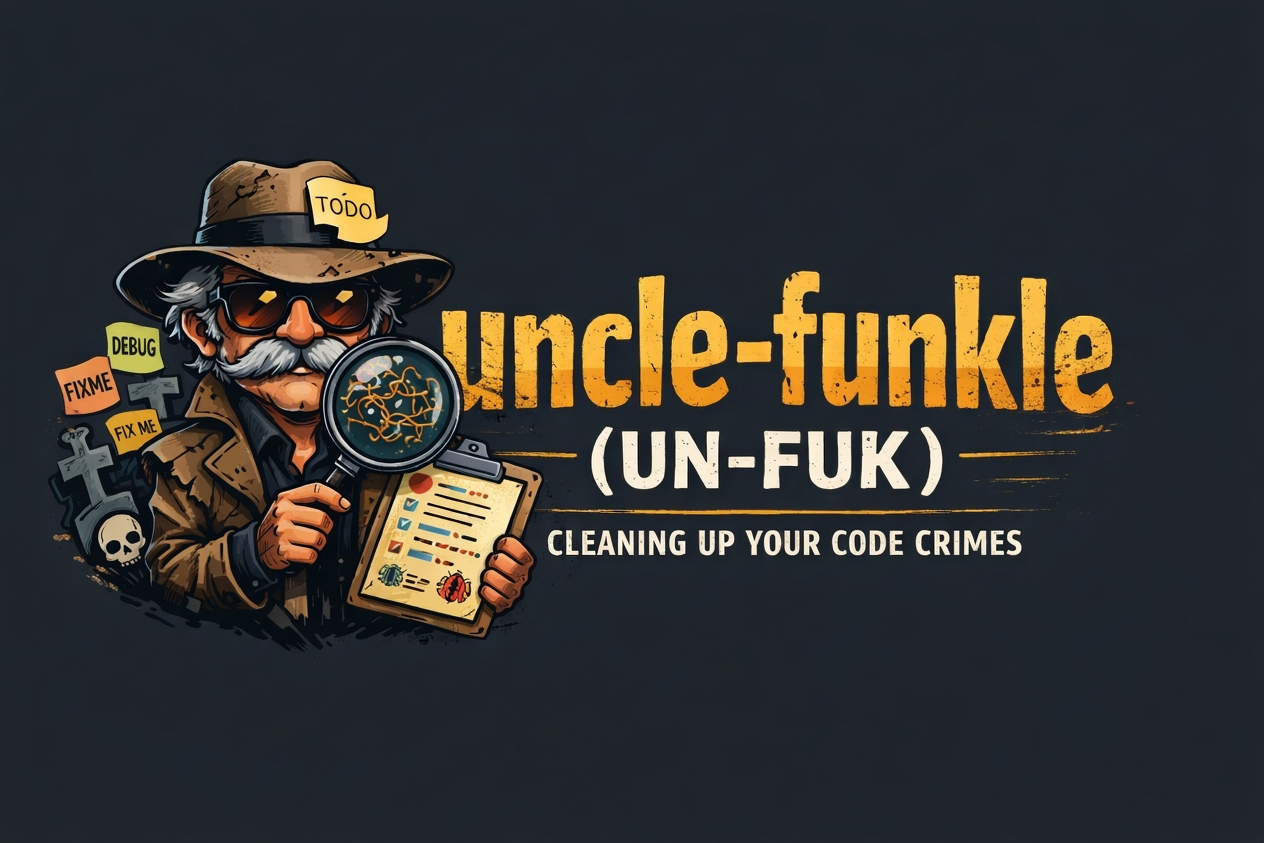
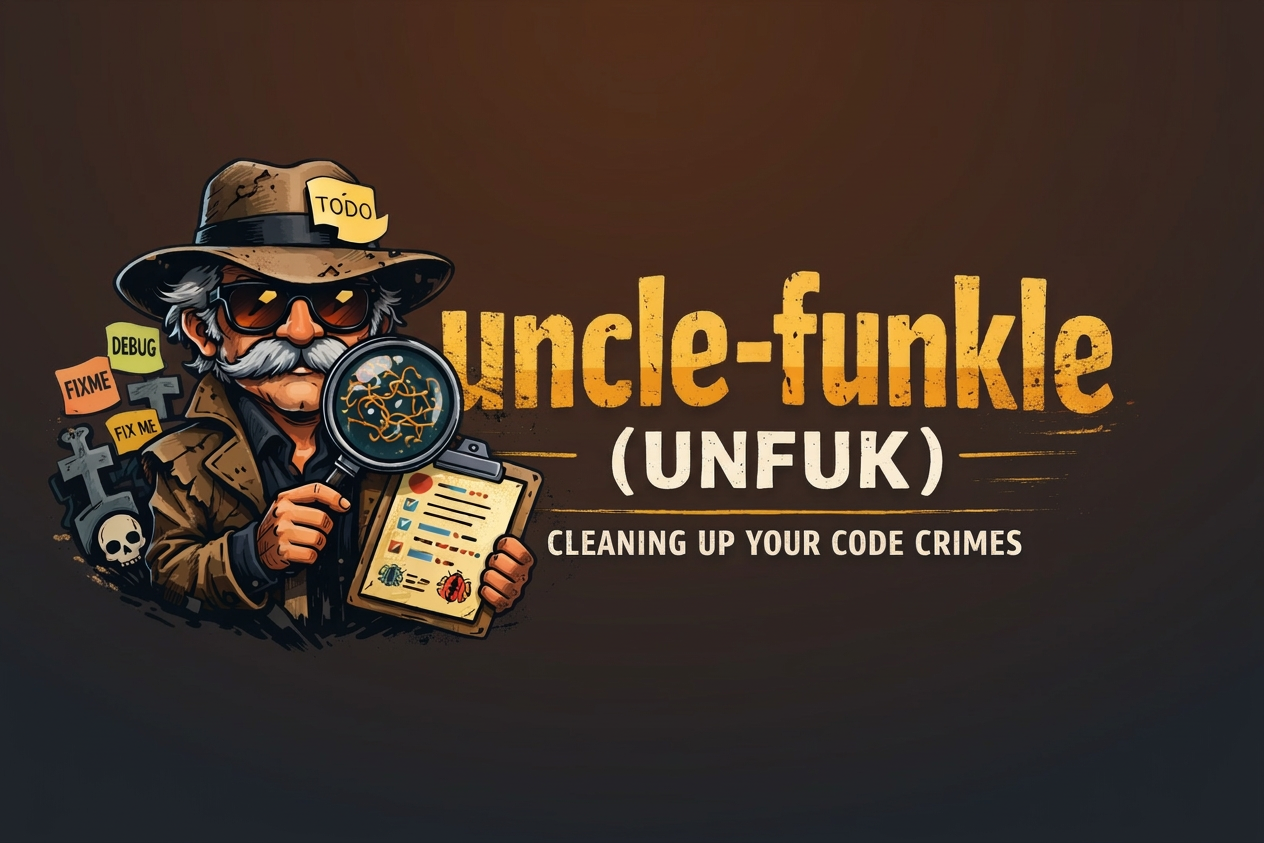
update README

diff --git a/README.md b/README.md
@@ -1,4 +1,4 @@
-# Uncle Funkle (UN-FUK for short)
+# Uncle Funkle (UNFUK for short)
 
 ![Uncle Funkle](assets//uncle-funkle.png)
 
